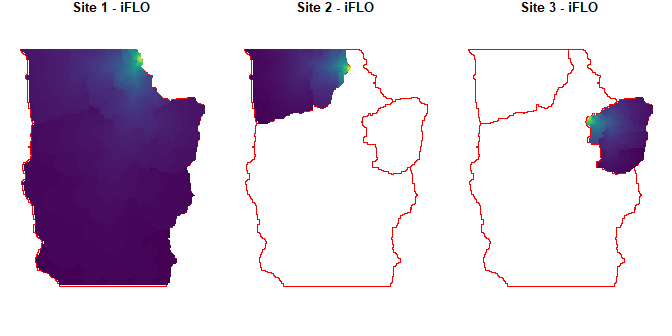
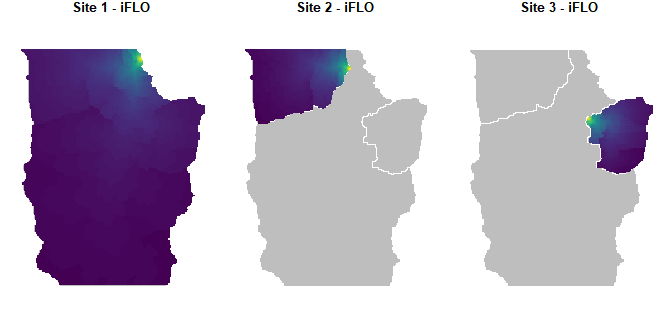
Starts to add navigation ability to README

diff --git a/README.md b/README.md
@@ -4,8 +4,7 @@
 # hydroweight: Inverse distance-weighted rasters and attributes
 
 <img src="man/figures/README-unnamed-chunk-5-1.png" width="75%" style="display: block; margin: auto;" />
-
-## 1.0 Introduction
+\#\# 1.0 Introduction
 
 Environmental scientists often want to calculate landscape statistics
 within upstream contributing areas (i.e., catchments) to examine their
@@ -114,14 +113,14 @@ wbt_breach_depressions(
   dem = file.path(hydroweight_dir, "toy_dem.tif"),
   output = file.path(hydroweight_dir, "toy_dem_breached.tif")
 )
-#> [1] "breach_depressions - Elapsed Time (excluding I/O): 0.12s"
+#> [1] "breach_depressions - Elapsed Time (excluding I/O): 0.6s"
 
 ## Generate d8 flow pointer (note: other flow directions are available)
 wbt_d8_pointer(
   dem = file.path(hydroweight_dir, "toy_dem_breached.tif"),
   output = file.path(hydroweight_dir, "toy_dem_breached_d8.tif")
 )
-#> [1] "d8_pointer - Elapsed Time (excluding I/O): 0.3s"
+#> [1] "d8_pointer - Elapsed Time (excluding I/O): 0.0s"
 
 ## Generate d8 flow accumulation in units of cells (note: other flow directions are available)
 wbt_d8_flow_accumulation(
@@ -129,7 +128,7 @@ wbt_d8_flow_accumulation(
   output = file.path(hydroweight_dir, "toy_dem_breached_accum.tif"),
   out_type = "cells"
 )
-#> [1] "d8_flow_accumulation - Elapsed Time (excluding I/O): 0.100s"
+#> [1] "d8_flow_accumulation - Elapsed Time (excluding I/O): 0.83s"
 
 ## Generate streams with a stream initiation threshold of 2000 cells
 wbt_extract_streams(
@@ -168,7 +167,7 @@ wbt_watershed(
   pour_pts = file.path(hydroweight_dir, "tg_O.tif"),
   output = file.path(hydroweight_dir, "tg_O_catchment.tif")
 )
-#> [1] "watershed - Elapsed Time (excluding I/O): 0.7s"
+#> [1] "watershed - Elapsed Time (excluding I/O): 0.8s"
 
 tg_O_catchment <- raster(file.path(hydroweight_dir, "tg_O_catchment.tif"))
 tg_O_catchment <- rasterToPolygons(tg_O_catchment, dissolve = TRUE)
@@ -266,8 +265,8 @@ hw_test_1 <- hydroweight::hydroweight(
   ),
   inv_function = myinv
 )
-#> Preparing hydroweight layers @ 2021-02-11 16:01:57
-#> Running distance-weighting @ 2021-02-11 16:02:22
+#> Preparing hydroweight layers @ 2021-02-18 08:56:31
+#> Running distance-weighting @ 2021-02-18 08:56:50
 
 ## Resultant structure:
 # length(hw_test_1) ## 1 set of targets and 7 distance-weighted rasters
@@ -431,15 +430,15 @@ hw_test_5 <- foreach(xx = 1:nrow(tg_O_multi), .errorhandling = "pass") %do% {
 
   return(hw_test_xx)
 }
-#> Running hydroweight for site 1 at 2021-02-11 16:03:30
-#> Preparing hydroweight layers @ 2021-02-11 16:03:30
-#> Running distance-weighting @ 2021-02-11 16:03:54
-#> Running hydroweight for site 2 at 2021-02-11 16:03:58
-#> Preparing hydroweight layers @ 2021-02-11 16:03:58
-#> Running distance-weighting @ 2021-02-11 16:04:23
-#> Running hydroweight for site 3 at 2021-02-11 16:04:27
-#> Preparing hydroweight layers @ 2021-02-11 16:04:27
-#> Running distance-weighting @ 2021-02-11 16:04:53
+#> Running hydroweight for site 1 at 2021-02-18 08:57:41
+#> Preparing hydroweight layers @ 2021-02-18 08:57:41
+#> Running distance-weighting @ 2021-02-18 08:58:00
+#> Running hydroweight for site 2 at 2021-02-18 08:58:04
+#> Preparing hydroweight layers @ 2021-02-18 08:58:04
+#> Running distance-weighting @ 2021-02-18 08:58:23
+#> Running hydroweight for site 3 at 2021-02-18 08:58:27
+#> Preparing hydroweight layers @ 2021-02-18 08:58:27
+#> Running distance-weighting @ 2021-02-18 08:58:48
 
 ## Resultant structure:
 ## length(hw_test_5) # 3 sites
@@ -479,11 +478,11 @@ hw_test_5 <- lapply(inv_distance_collect, function(x) {
 
 ## Plot sites, their catchments, and their respective distance-weighted iFLO rasters
 par(mfrow = c(1, 3), mar = c(1, 1, 1, 1), oma = c(0, 0, 0, 0))
-plot(st_geometry(tg_O_multi_catchment), col = NA, border = "red", main = "Site 1 - iFLO")
+plot(st_geometry(tg_O_multi_catchment), col = "grey", border = "white", main = "Site 1 - iFLO")
 plot(hw_test_5[[1]][[3]], axes = F, legend = F, box = FALSE, col = viridis(101), add = T)
-plot(st_geometry(tg_O_multi_catchment), col = NA, border = "red", main = "Site 2 - iFLO")
+plot(st_geometry(tg_O_multi_catchment), col = "grey", border = "white", main = "Site 2 - iFLO")
 plot(hw_test_5[[2]][[3]], axes = F, legend = F, box = FALSE, col = viridis(101), add = T)
-plot(st_geometry(tg_O_multi_catchment), col = NA, border = "red", main = "Site 3 - iFLO")
+plot(st_geometry(tg_O_multi_catchment), col = "grey", border = "white", main = "Site 3 - iFLO")
 plot(hw_test_5[[3]][[3]], axes = F, legend = F, box = FALSE, col = viridis(101), add = T)
 ```
 
@@ -584,6 +583,25 @@ names(results_agg)
 #> [45] "HAiFLS_ndvi_distwtd_sd"   "HAiFLS_ndvi_median"      
 #> [47] "HAiFLS_ndvi_min"          "HAiFLS_ndvi_max"         
 #> [49] "HAiFLS_ndvi_sum"          "HAiFLS_ndvi_pixel_count"
+
+## Note that statistics without _distwd are identical across distance-weighted rasters 
+## So, you can take the lumped and distwd columns to reduce duplication 
+lumped_cols <- grep("lumped", names(results_agg))
+distwd_cols <- grep("distwtd", names(results_agg))
+unique_cols <- unique(c(1, lumped_cols, distwd_cols))
+
+results_agg <- results_agg[,unique_cols]
+names(results_agg)
+#>  [1] "Lake"                     "lumped_ndvi_distwtd_mean"
+#>  [3] "lumped_ndvi_distwtd_sd"   "lumped_ndvi_median"      
+#>  [5] "lumped_ndvi_min"          "lumped_ndvi_max"         
+#>  [7] "lumped_ndvi_sum"          "lumped_ndvi_pixel_count" 
+#>  [9] "iEucO_ndvi_distwtd_mean"  "iEucO_ndvi_distwtd_sd"   
+#> [11] "iFLO_ndvi_distwtd_mean"   "iFLO_ndvi_distwtd_sd"    
+#> [13] "HAiFLO_ndvi_distwtd_mean" "HAiFLO_ndvi_distwtd_sd"  
+#> [15] "iEucS_ndvi_distwtd_mean"  "iEucS_ndvi_distwtd_sd"   
+#> [17] "iFLS_ndvi_distwtd_mean"   "iFLS_ndvi_distwtd_sd"    
+#> [19] "HAiFLS_ndvi_distwtd_mean" "HAiFLS_ndvi_distwtd_sd"
 
 ## Plot
 plot(ndvi, axes = F, legend = F, box = FALSE, col = viridis(101))
@@ -936,31 +954,31 @@ results_agg <- lapply(results, function(x) {
 })
 results_agg <- Reduce(merge, results_agg)
 names(results_agg)
-#>  [1] "Lake"                      "lumped_lulc_prop_var_1_6" 
-#>  [3] "lumped_lulc_prop_var_1_8"  "lumped_lulc_prop_var_1_2" 
-#>  [5] "lumped_lulc_prop_var_1_3"  "lumped_lulc_prop_var_2_25"
-#>  [7] "lumped_lulc_prop_var_2_24" "lumped_lulc_prop_var_2_27"
-#>  [9] "iEucO_lulc_prop_var_1_6"   "iEucO_lulc_prop_var_1_8"  
-#> [11] "iEucO_lulc_prop_var_1_2"   "iEucO_lulc_prop_var_1_3"  
-#> [13] "iEucO_lulc_prop_var_2_25"  "iEucO_lulc_prop_var_2_24" 
-#> [15] "iEucO_lulc_prop_var_2_27"  "iFLO_lulc_prop_var_1_6"   
-#> [17] "iFLO_lulc_prop_var_1_8"    "iFLO_lulc_prop_var_1_2"   
-#> [19] "iFLO_lulc_prop_var_1_3"    "iFLO_lulc_prop_var_2_25"  
-#> [21] "iFLO_lulc_prop_var_2_24"   "iFLO_lulc_prop_var_2_27"  
-#> [23] "HAiFLO_lulc_prop_var_1_6"  "HAiFLO_lulc_prop_var_1_8" 
-#> [25] "HAiFLO_lulc_prop_var_1_2"  "HAiFLO_lulc_prop_var_1_3" 
-#> [27] "HAiFLO_lulc_prop_var_2_25" "HAiFLO_lulc_prop_var_2_24"
-#> [29] "HAiFLO_lulc_prop_var_2_27" "iEucS_lulc_prop_var_1_6"  
-#> [31] "iEucS_lulc_prop_var_1_8"   "iEucS_lulc_prop_var_1_2"  
-#> [33] "iEucS_lulc_prop_var_1_3"   "iEucS_lulc_prop_var_2_25" 
-#> [35] "iEucS_lulc_prop_var_2_24"  "iEucS_lulc_prop_var_2_27" 
-#> [37] "iFLS_lulc_prop_var_1_6"    "iFLS_lulc_prop_var_1_8"   
-#> [39] "iFLS_lulc_prop_var_1_2"    "iFLS_lulc_prop_var_1_3"   
-#> [41] "iFLS_lulc_prop_var_2_25"   "iFLS_lulc_prop_var_2_24"  
-#> [43] "iFLS_lulc_prop_var_2_27"   "HAiFLS_lulc_prop_var_1_6" 
-#> [45] "HAiFLS_lulc_prop_var_1_8"  "HAiFLS_lulc_prop_var_1_2" 
-#> [47] "HAiFLS_lulc_prop_var_1_3"  "HAiFLS_lulc_prop_var_2_25"
-#> [49] "HAiFLS_lulc_prop_var_2_24" "HAiFLS_lulc_prop_var_2_27"
+#>  [1] "Lake"                      "lumped_lulc_prop_var_1_4" 
+#>  [3] "lumped_lulc_prop_var_1_7"  "lumped_lulc_prop_var_1_8" 
+#>  [5] "lumped_lulc_prop_var_2_25" "lumped_lulc_prop_var_2_24"
+#>  [7] "lumped_lulc_prop_var_2_27" "lumped_lulc_prop_var_2_29"
+#>  [9] "iEucO_lulc_prop_var_1_4"   "iEucO_lulc_prop_var_1_7"  
+#> [11] "iEucO_lulc_prop_var_1_8"   "iEucO_lulc_prop_var_2_25" 
+#> [13] "iEucO_lulc_prop_var_2_24"  "iEucO_lulc_prop_var_2_27" 
+#> [15] "iEucO_lulc_prop_var_2_29"  "iFLO_lulc_prop_var_1_4"   
+#> [17] "iFLO_lulc_prop_var_1_7"    "iFLO_lulc_prop_var_1_8"   
+#> [19] "iFLO_lulc_prop_var_2_25"   "iFLO_lulc_prop_var_2_24"  
+#> [21] "iFLO_lulc_prop_var_2_27"   "iFLO_lulc_prop_var_2_29"  
+#> [23] "HAiFLO_lulc_prop_var_1_4"  "HAiFLO_lulc_prop_var_1_7" 
+#> [25] "HAiFLO_lulc_prop_var_1_8"  "HAiFLO_lulc_prop_var_2_25"
+#> [27] "HAiFLO_lulc_prop_var_2_24" "HAiFLO_lulc_prop_var_2_27"
+#> [29] "HAiFLO_lulc_prop_var_2_29" "iEucS_lulc_prop_var_1_4"  
+#> [31] "iEucS_lulc_prop_var_1_7"   "iEucS_lulc_prop_var_1_8"  
+#> [33] "iEucS_lulc_prop_var_2_25"  "iEucS_lulc_prop_var_2_24" 
+#> [35] "iEucS_lulc_prop_var_2_27"  "iEucS_lulc_prop_var_2_29" 
+#> [37] "iFLS_lulc_prop_var_1_4"    "iFLS_lulc_prop_var_1_7"   
+#> [39] "iFLS_lulc_prop_var_1_8"    "iFLS_lulc_prop_var_2_25"  
+#> [41] "iFLS_lulc_prop_var_2_24"   "iFLS_lulc_prop_var_2_27"  
+#> [43] "iFLS_lulc_prop_var_2_29"   "HAiFLS_lulc_prop_var_1_4" 
+#> [45] "HAiFLS_lulc_prop_var_1_7"  "HAiFLS_lulc_prop_var_1_8" 
+#> [47] "HAiFLS_lulc_prop_var_2_25" "HAiFLS_lulc_prop_var_2_24"
+#> [49] "HAiFLS_lulc_prop_var_2_27" "HAiFLS_lulc_prop_var_2_29"
 ```
 
 ### 4.5 Bringing it all together: Running `hydroweight()` and `hydroweight_attributes()` across sites and layers
@@ -1095,10 +1113,10 @@ names(site_statistics)
 #>  [21] "lumped_lulc_var_1_max"          "lumped_lulc_var_2_max"         
 #>  [23] "lumped_lulc_var_1_sum"          "lumped_lulc_var_2_sum"         
 #>  [25] "lumped_lulc_var_1_pixel_count"  "lumped_lulc_var_2_pixel_count" 
-#>  [27] "lumped_lulc_prop_var_1_6"       "lumped_lulc_prop_var_1_8"      
-#>  [29] "lumped_lulc_prop_var_1_2"       "lumped_lulc_prop_var_1_3"      
-#>  [31] "lumped_lulc_prop_var_2_25"      "lumped_lulc_prop_var_2_24"     
-#>  [33] "lumped_lulc_prop_var_2_27"      "iEucO_ndvi_distwtd_mean"       
+#>  [27] "lumped_lulc_prop_var_1_4"       "lumped_lulc_prop_var_1_7"      
+#>  [29] "lumped_lulc_prop_var_1_8"       "lumped_lulc_prop_var_2_25"     
+#>  [31] "lumped_lulc_prop_var_2_24"      "lumped_lulc_prop_var_2_27"     
+#>  [33] "lumped_lulc_prop_var_2_29"      "iEucO_ndvi_distwtd_mean"       
 #>  [35] "iEucO_ndvi_distwtd_sd"          "iEucO_ndvi_median"             
 #>  [37] "iEucO_ndvi_min"                 "iEucO_ndvi_max"                
 #>  [39] "iEucO_ndvi_sum"                 "iEucO_ndvi_pixel_count"        
@@ -1111,10 +1129,10 @@ names(site_statistics)
 #>  [53] "iEucO_lulc_var_1_max"           "iEucO_lulc_var_2_max"          
 #>  [55] "iEucO_lulc_var_1_sum"           "iEucO_lulc_var_2_sum"          
 #>  [57] "iEucO_lulc_var_1_pixel_count"   "iEucO_lulc_var_2_pixel_count"  
-#>  [59] "iEucO_lulc_prop_var_1_6"        "iEucO_lulc_prop_var_1_8"       
-#>  [61] "iEucO_lulc_prop_var_1_2"        "iEucO_lulc_prop_var_1_3"       
-#>  [63] "iEucO_lulc_prop_var_2_25"       "iEucO_lulc_prop_var_2_24"      
-#>  [65] "iEucO_lulc_prop_var_2_27"       "iFLO_ndvi_distwtd_mean"        
+#>  [59] "iEucO_lulc_prop_var_1_4"        "iEucO_lulc_prop_var_1_7"       
+#>  [61] "iEucO_lulc_prop_var_1_8"        "iEucO_lulc_prop_var_2_25"      
+#>  [63] "iEucO_lulc_prop_var_2_24"       "iEucO_lulc_prop_var_2_27"      
+#>  [65] "iEucO_lulc_prop_var_2_29"       "iFLO_ndvi_distwtd_mean"        
 #>  [67] "iFLO_ndvi_distwtd_sd"           "iFLO_ndvi_median"              
 #>  [69] "iFLO_ndvi_min"                  "iFLO_ndvi_max"                 
 #>  [71] "iFLO_ndvi_sum"                  "iFLO_ndvi_pixel_count"         
@@ -1127,10 +1145,10 @@ names(site_statistics)
 #>  [85] "iFLO_lulc_var_1_max"            "iFLO_lulc_var_2_max"           
 #>  [87] "iFLO_lulc_var_1_sum"            "iFLO_lulc_var_2_sum"           
 #>  [89] "iFLO_lulc_var_1_pixel_count"    "iFLO_lulc_var_2_pixel_count"   
-#>  [91] "iFLO_lulc_prop_var_1_6"         "iFLO_lulc_prop_var_1_8"        
-#>  [93] "iFLO_lulc_prop_var_1_2"         "iFLO_lulc_prop_var_1_3"        
-#>  [95] "iFLO_lulc_prop_var_2_25"        "iFLO_lulc_prop_var_2_24"       
-#>  [97] "iFLO_lulc_prop_var_2_27"        "HAiFLO_ndvi_distwtd_mean"      
+#>  [91] "iFLO_lulc_prop_var_1_4"         "iFLO_lulc_prop_var_1_7"        
+#>  [93] "iFLO_lulc_prop_var_1_8"         "iFLO_lulc_prop_var_2_25"       
+#>  [95] "iFLO_lulc_prop_var_2_24"        "iFLO_lulc_prop_var_2_27"       
+#>  [97] "iFLO_lulc_prop_var_2_29"        "HAiFLO_ndvi_distwtd_mean"      
 #>  [99] "HAiFLO_ndvi_distwtd_sd"         "HAiFLO_ndvi_median"            
 #> [101] "HAiFLO_ndvi_min"                "HAiFLO_ndvi_max"               
 #> [103] "HAiFLO_ndvi_sum"                "HAiFLO_ndvi_pixel_count"       
@@ -1143,10 +1161,10 @@ names(site_statistics)
 #> [117] "HAiFLO_lulc_var_1_max"          "HAiFLO_lulc_var_2_max"         
 #> [119] "HAiFLO_lulc_var_1_sum"          "HAiFLO_lulc_var_2_sum"         
 #> [121] "HAiFLO_lulc_var_1_pixel_count"  "HAiFLO_lulc_var_2_pixel_count" 
-#> [123] "HAiFLO_lulc_prop_var_1_6"       "HAiFLO_lulc_prop_var_1_8"      
-#> [125] "HAiFLO_lulc_prop_var_1_2"       "HAiFLO_lulc_prop_var_1_3"      
-#> [127] "HAiFLO_lulc_prop_var_2_25"      "HAiFLO_lulc_prop_var_2_24"     
-#> [129] "HAiFLO_lulc_prop_var_2_27"      "iEucS_ndvi_distwtd_mean"       
+#> [123] "HAiFLO_lulc_prop_var_1_4"       "HAiFLO_lulc_prop_var_1_7"      
+#> [125] "HAiFLO_lulc_prop_var_1_8"       "HAiFLO_lulc_prop_var_2_25"     
+#> [127] "HAiFLO_lulc_prop_var_2_24"      "HAiFLO_lulc_prop_var_2_27"     
+#> [129] "HAiFLO_lulc_prop_var_2_29"      "iEucS_ndvi_distwtd_mean"       
 #> [131] "iEucS_ndvi_distwtd_sd"          "iEucS_ndvi_median"             
 #> [133] "iEucS_ndvi_min"                 "iEucS_ndvi_max"                
 #> [135] "iEucS_ndvi_sum"                 "iEucS_ndvi_pixel_count"        
@@ -1159,10 +1177,10 @@ names(site_statistics)
 #> [149] "iEucS_lulc_var_1_max"           "iEucS_lulc_var_2_max"          
 #> [151] "iEucS_lulc_var_1_sum"           "iEucS_lulc_var_2_sum"          
 #> [153] "iEucS_lulc_var_1_pixel_count"   "iEucS_lulc_var_2_pixel_count"  
-#> [155] "iEucS_lulc_prop_var_1_6"        "iEucS_lulc_prop_var_1_8"       
-#> [157] "iEucS_lulc_prop_var_1_2"        "iEucS_lulc_prop_var_1_3"       
-#> [159] "iEucS_lulc_prop_var_2_25"       "iEucS_lulc_prop_var_2_24"      
-#> [161] "iEucS_lulc_prop_var_2_27"       "iFLS_ndvi_distwtd_mean"        
+#> [155] "iEucS_lulc_prop_var_1_4"        "iEucS_lulc_prop_var_1_7"       
+#> [157] "iEucS_lulc_prop_var_1_8"        "iEucS_lulc_prop_var_2_25"      
+#> [159] "iEucS_lulc_prop_var_2_24"       "iEucS_lulc_prop_var_2_27"      
+#> [161] "iEucS_lulc_prop_var_2_29"       "iFLS_ndvi_distwtd_mean"        
 #> [163] "iFLS_ndvi_distwtd_sd"           "iFLS_ndvi_median"              
 #> [165] "iFLS_ndvi_min"                  "iFLS_ndvi_max"                 
 #> [167] "iFLS_ndvi_sum"                  "iFLS_ndvi_pixel_count"         
@@ -1175,10 +1193,10 @@ names(site_statistics)
 #> [181] "iFLS_lulc_var_1_max"            "iFLS_lulc_var_2_max"           
 #> [183] "iFLS_lulc_var_1_sum"            "iFLS_lulc_var_2_sum"           
 #> [185] "iFLS_lulc_var_1_pixel_count"    "iFLS_lulc_var_2_pixel_count"   
-#> [187] "iFLS_lulc_prop_var_1_6"         "iFLS_lulc_prop_var_1_8"        
-#> [189] "iFLS_lulc_prop_var_1_2"         "iFLS_lulc_prop_var_1_3"        
-#> [191] "iFLS_lulc_prop_var_2_25"        "iFLS_lulc_prop_var_2_24"       
-#> [193] "iFLS_lulc_prop_var_2_27"        "HAiFLS_ndvi_distwtd_mean"      
+#> [187] "iFLS_lulc_prop_var_1_4"         "iFLS_lulc_prop_var_1_7"        
+#> [189] "iFLS_lulc_prop_var_1_8"         "iFLS_lulc_prop_var_2_25"       
+#> [191] "iFLS_lulc_prop_var_2_24"        "iFLS_lulc_prop_var_2_27"       
+#> [193] "iFLS_lulc_prop_var_2_29"        "HAiFLS_ndvi_distwtd_mean"      
 #> [195] "HAiFLS_ndvi_distwtd_sd"         "HAiFLS_ndvi_median"            
 #> [197] "HAiFLS_ndvi_min"                "HAiFLS_ndvi_max"               
 #> [199] "HAiFLS_ndvi_sum"                "HAiFLS_ndvi_pixel_count"       
@@ -1191,10 +1209,10 @@ names(site_statistics)
 #> [213] "HAiFLS_lulc_var_1_max"          "HAiFLS_lulc_var_2_max"         
 #> [215] "HAiFLS_lulc_var_1_sum"          "HAiFLS_lulc_var_2_sum"         
 #> [217] "HAiFLS_lulc_var_1_pixel_count"  "HAiFLS_lulc_var_2_pixel_count" 
-#> [219] "HAiFLS_lulc_prop_var_1_6"       "HAiFLS_lulc_prop_var_1_8"      
-#> [221] "HAiFLS_lulc_prop_var_1_2"       "HAiFLS_lulc_prop_var_1_3"      
-#> [223] "HAiFLS_lulc_prop_var_2_25"      "HAiFLS_lulc_prop_var_2_24"     
-#> [225] "HAiFLS_lulc_prop_var_2_27"
+#> [219] "HAiFLS_lulc_prop_var_1_4"       "HAiFLS_lulc_prop_var_1_7"      
+#> [221] "HAiFLS_lulc_prop_var_1_8"       "HAiFLS_lulc_prop_var_2_25"     
+#> [223] "HAiFLS_lulc_prop_var_2_24"      "HAiFLS_lulc_prop_var_2_27"     
+#> [225] "HAiFLS_lulc_prop_var_2_29"
 ```
 
 Now - like any good environmental scientist - you have more variables
@@ -1229,8 +1247,9 @@ Wu Q. (2020). whitebox: ‘WhiteboxTools’ R Frontend. R package version
 
 ## 6.0 Future Plans
 
-This package was implemented to mostly serve our purposes. There is
-probably lots of room for improvement that we don’t see yet.
+This package was implemented to mostly serve our purposes and is
+functional enough. There is probably lots of room for improvement that
+we don’t see yet.
 
 The core functions should stay the same but we would like to:
 

diff --git a/LICENSE.md b/LICENSE.md
@@ -1,6 +1,6 @@
 # MIT License
 
-Copyright (c) 2021 TODO
+Copyright (c) Her Majesty the Queen in Right of Canada, as represented by the Minister of Natural Resources Canada, (2021).
 
 Permission is hereby granted, free of charge, to any person obtaining a copy
 of this software and associated documentation files (the "Software"), to deal
